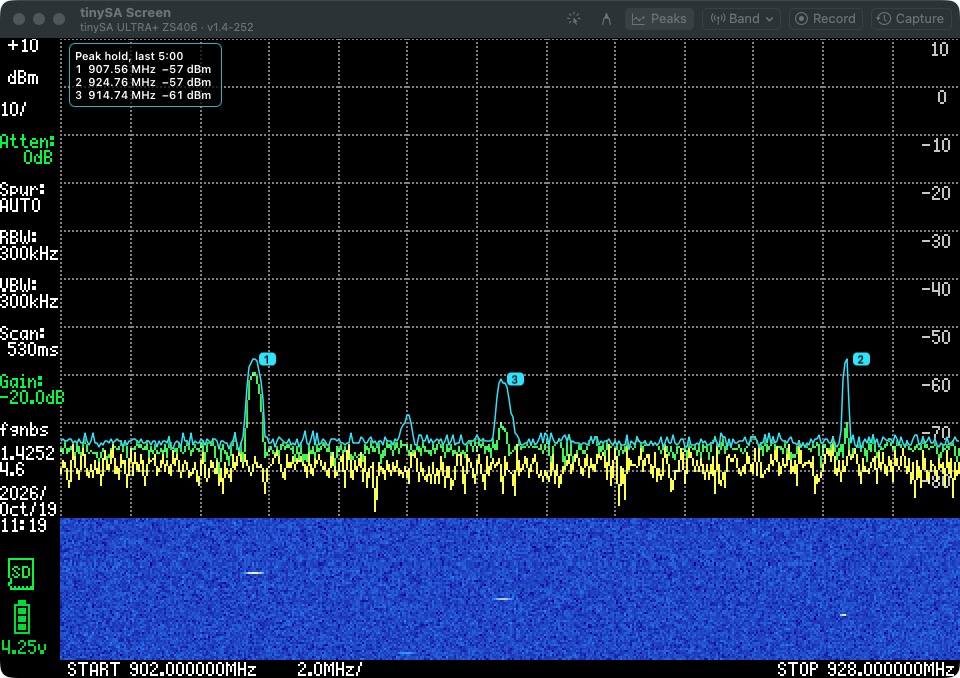
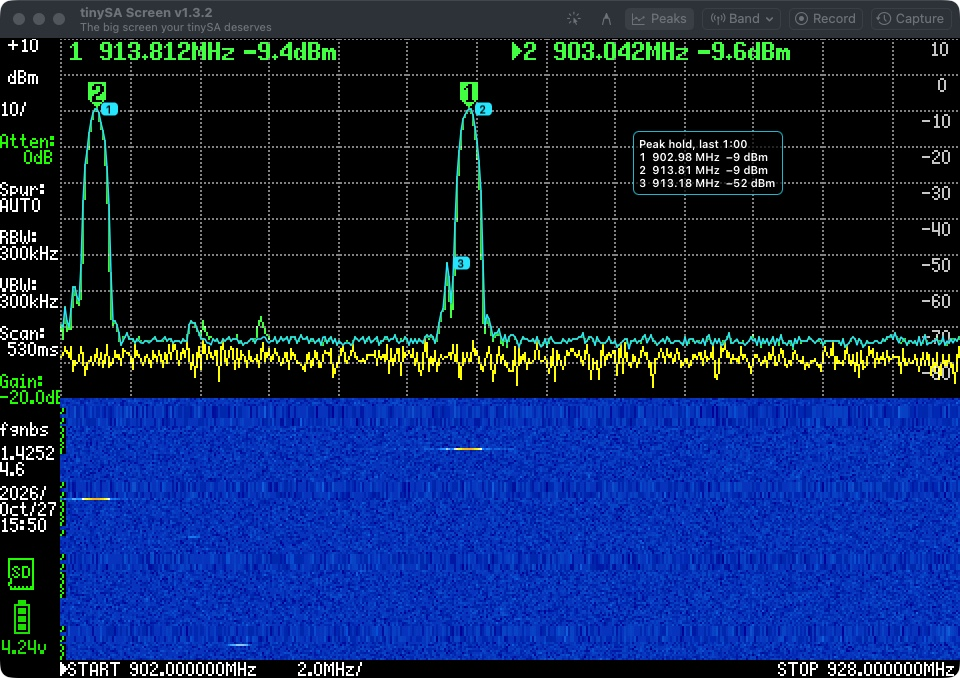
Docs: the README's window pictures, retaken with 1.3.2's title bar
Both at the window's double size, 960 × 640 for the analyzer's screen: the RFID band with the peak hold (a minute this
time, its caption to match), and the analyzer's DISPLAY menu opened by clicks.

diff --git a/README.md b/README.md
@@ -13,10 +13,10 @@ own screen.
 
 ![tinySA Screen on a Mac, showing a tinySA Ultra+ on the 902–928 MHz RFID band with the peak hold](docs/images/window-live.jpg)
 
-_tinySA Screen with a tinySA Ultra+ on the 902–928 MHz RFID band. The peak hold (cyan), here keeping five minutes, has
-caught three bursts from RFID readers, numbered with their frequency and level; the analyzer's own traces are its
-yellow sweep and its green max decay, and each burst is a dash in the waterfall. The title bar has the pointer and pen,
-the peak hold, bands, Record and Capture._
+_tinySA Screen with a tinySA Ultra+ on the 902–928 MHz RFID band. The peak hold (cyan), here keeping a minute, has
+caught bursts from RFID readers, its peaks numbered with their frequency and level; the analyzer's own traces are its
+yellow sweep and its green max decay, and each burst is a dash in the waterfall. The title bar has the app's version
+and tagline, the pointer and pen, the peak hold, bands, Record and Capture._
 
 ## Install
 
